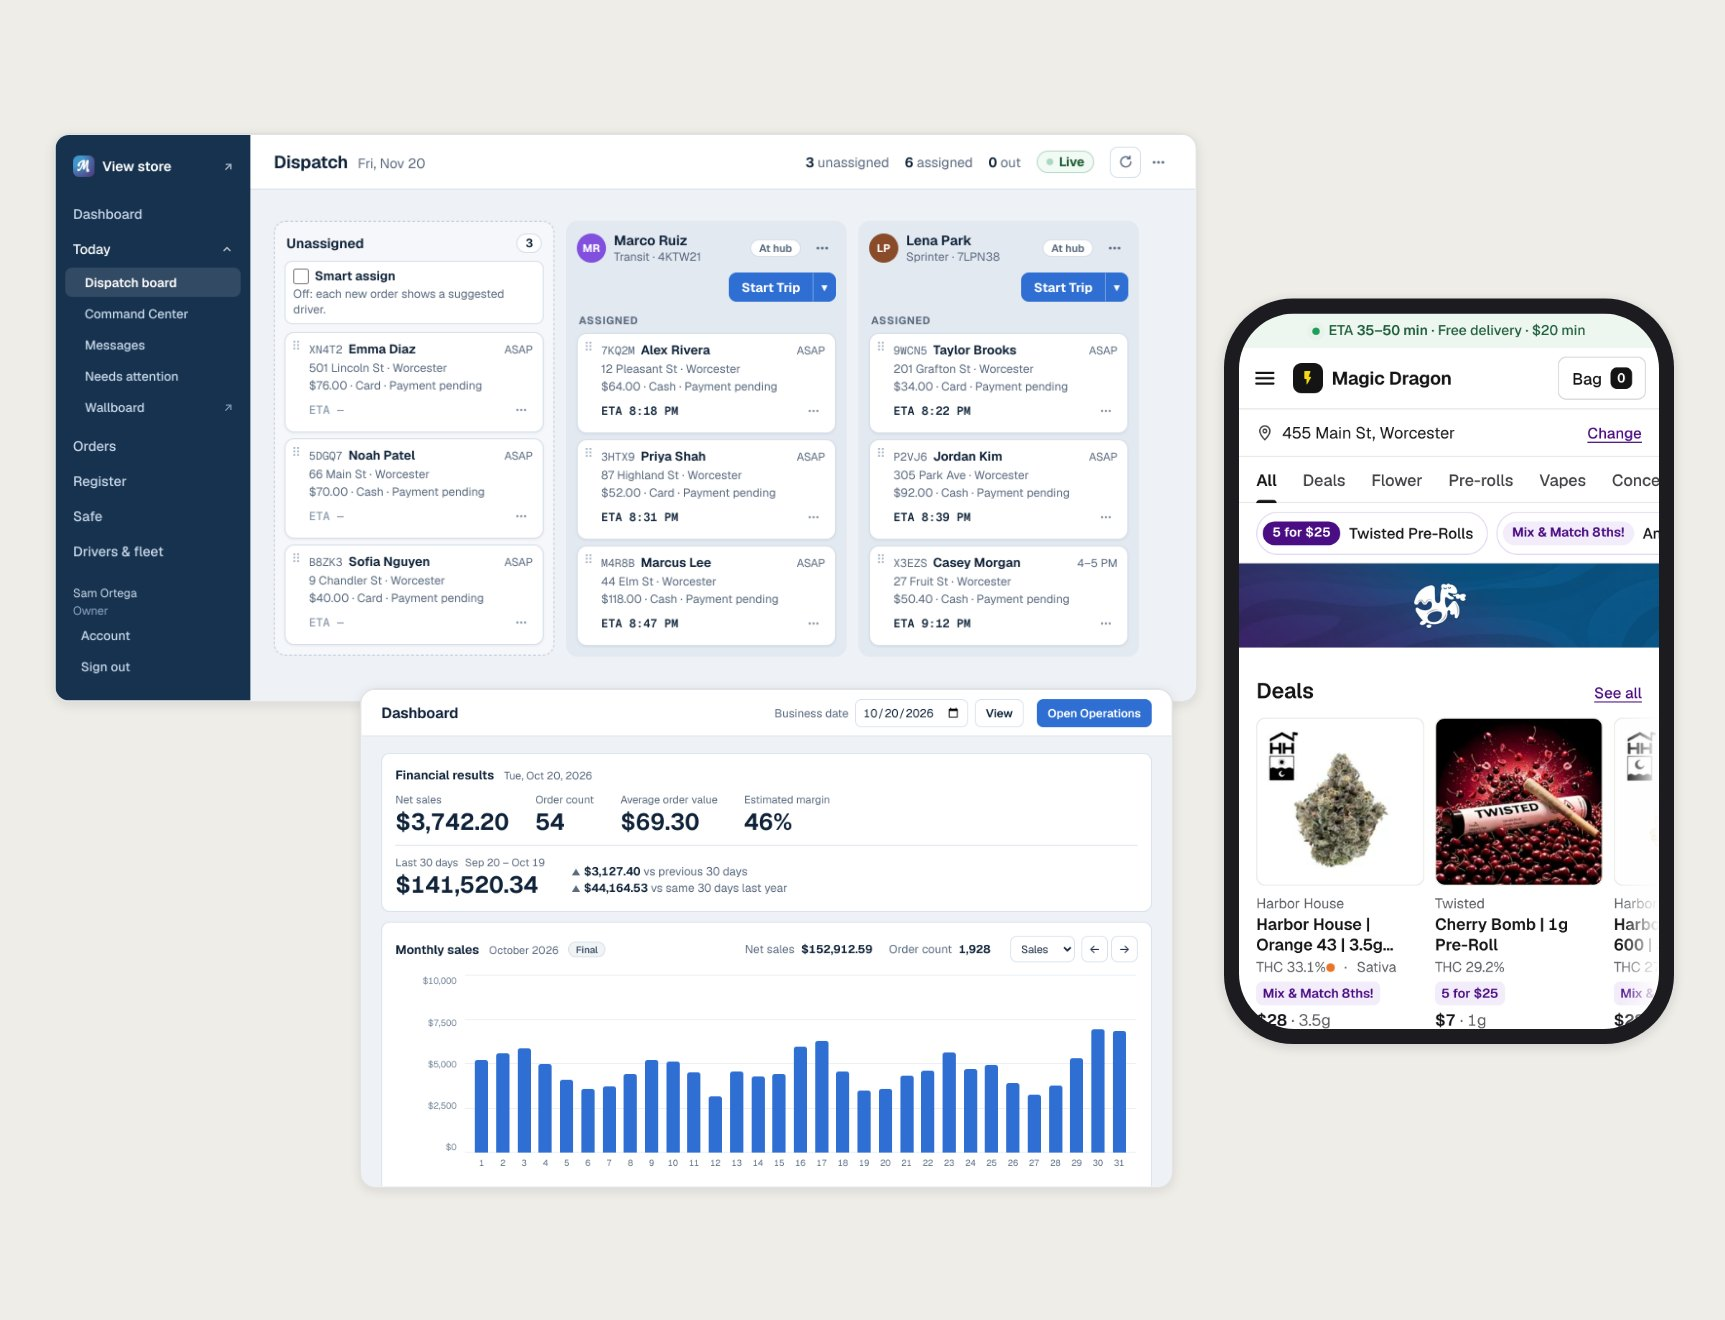
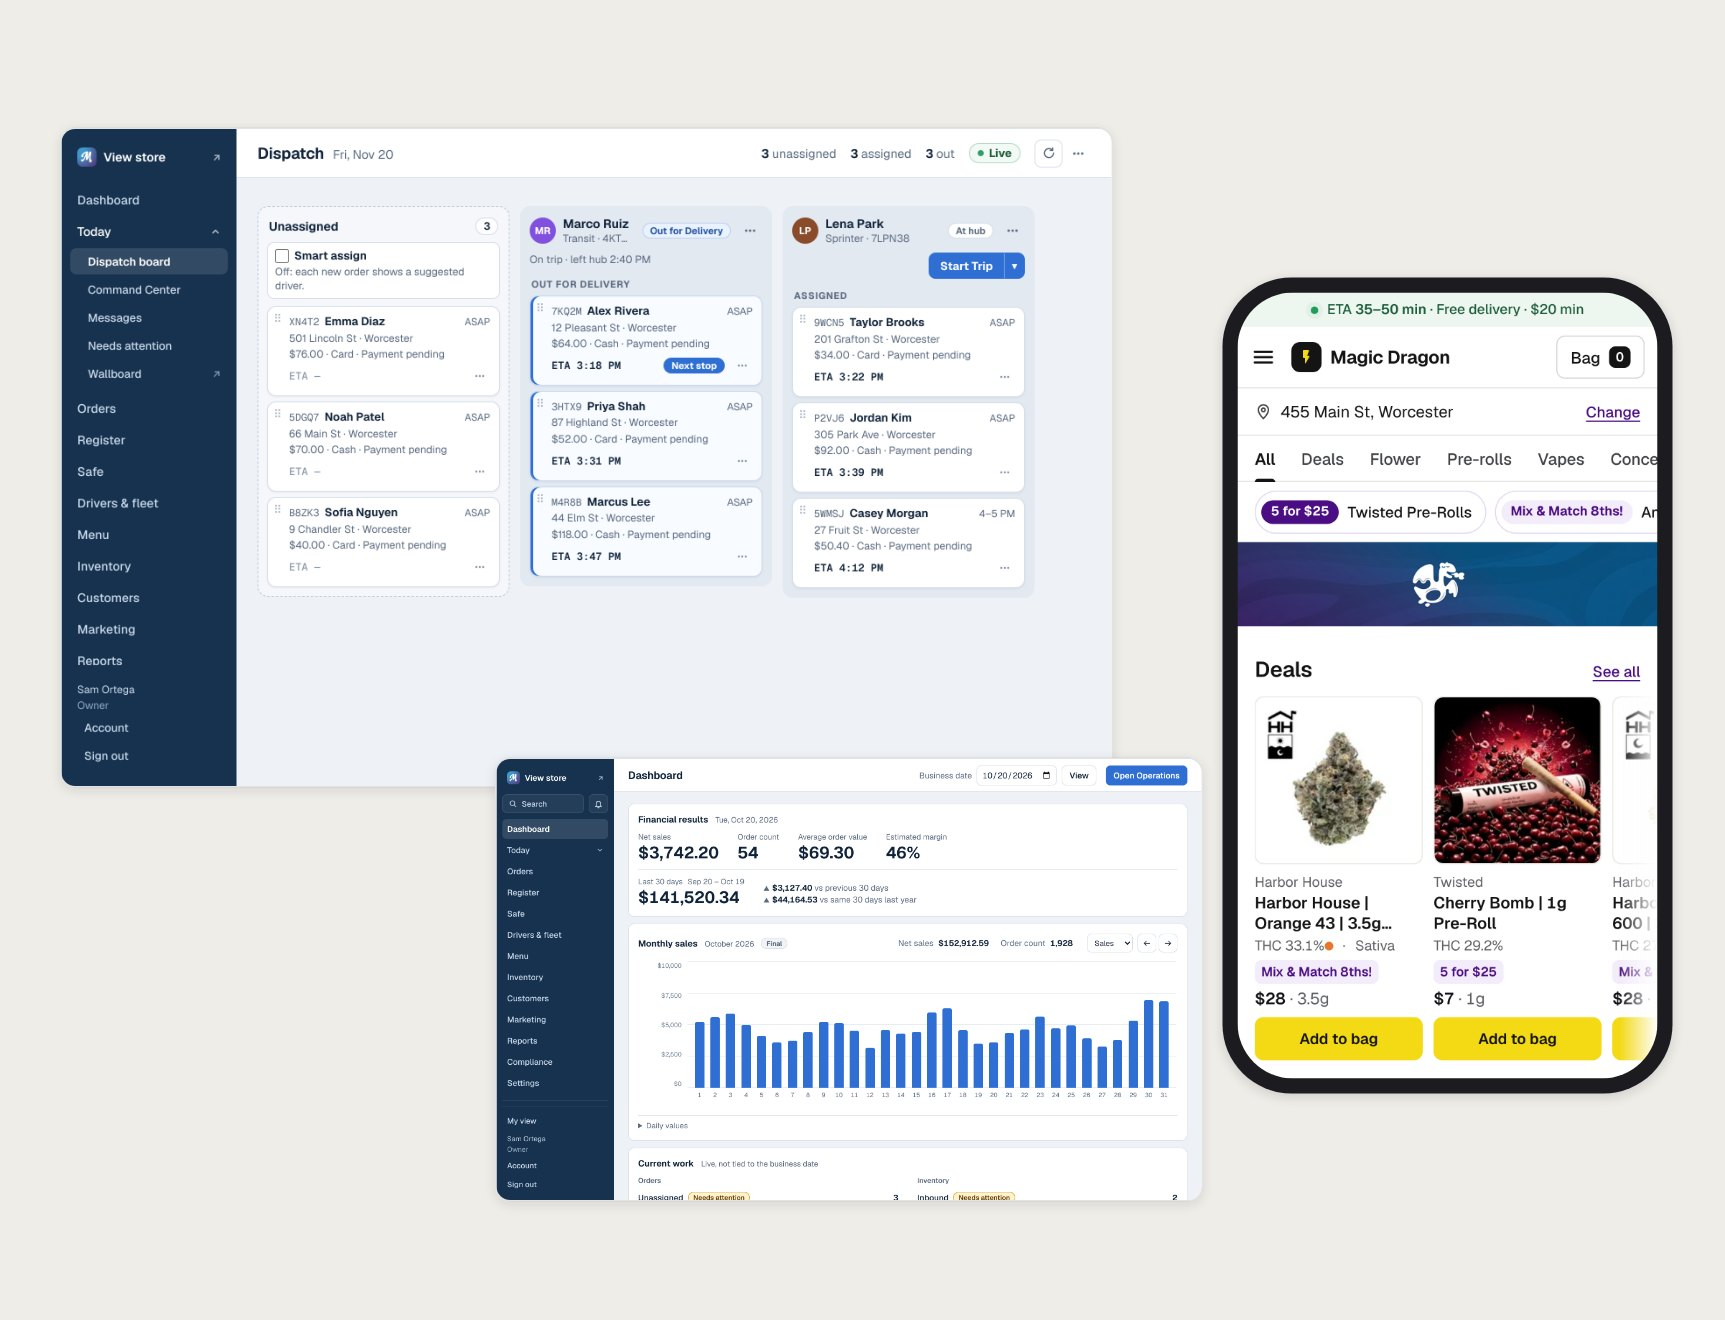
Magic Dragon case study: hero and card at normal device proportions
Dispatch board and Dashboard as 16:10 windows, the phone in a frame at a phone's shape.

Claude-Session: https://claude.ai/code/session_01KdwHZStffMf9fdHqttFYc3

Changed region(s): [[0.2151, 0.1864, 0.9832, 0.9318], [0.0307, 0.0932, 0.6759, 0.6212], [0.4609, 0.528, 0.4916, 0.5591]]

diff --git a/work/magic-dragon-web/index.html b/work/magic-dragon-web/index.html
@@ -52,7 +52,7 @@
     <section class="section">
       <div class="wrap">
         <figure class="hero-figure">
-          <img src="img/hero.jpg" alt="Three Magic Dragon screens: the dispatch board with unassigned orders and two drivers' columns, the back office Dashboard with the day's sales and a month of daily sales bars, and the website on a phone with a delivery address set, the ETA at the top and products below" width="1600" height="900">
+          <img src="img/hero.jpg" alt="Three Magic Dragon screens: the dispatch board with unassigned orders and two drivers' columns, one of them out on deliveries, the back office Dashboard with the day's sales and a month of daily sales bars, and the website on a phone with a delivery address set, the ETA at the top and products below" width="1600" height="900">
         </figure>
       </div>
     </section>
